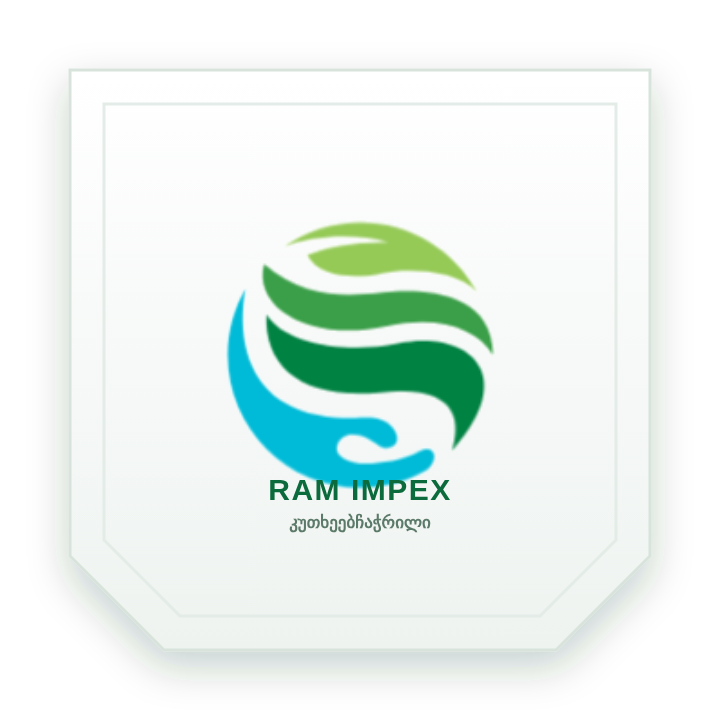
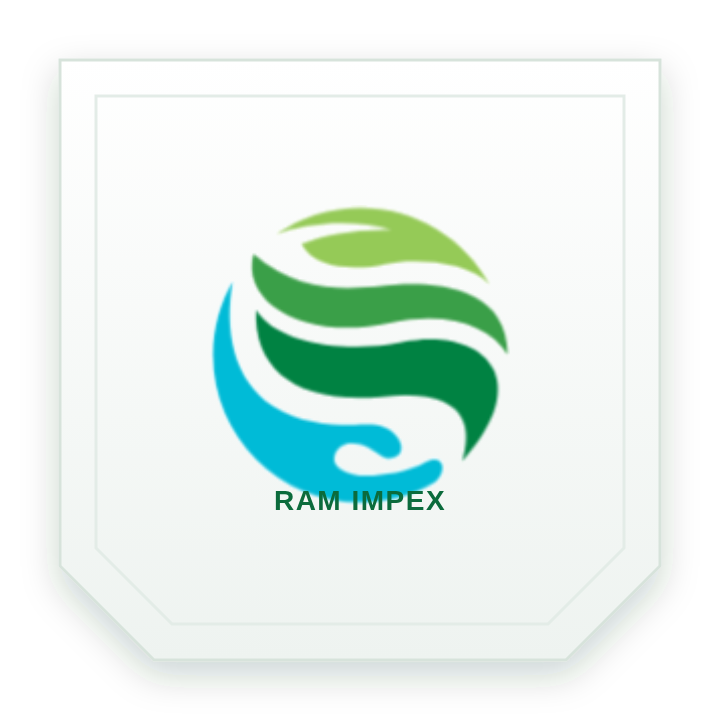
ramimpex: პიცის სურათები დიდი + კრაფტი უბრენდო ვერსია
- 6 ილუსტრაცია: თეთრი (ლოგოთი) + კრაფტი (ყავისფერი, ლოგოს გარეშე), ლოგო/ყუთი გადიდებული.
- მომხმარებლის კარტებზე სურათი 56→104px; ინვოისში 34/40→48/60px, object-fit contain.
- SQL ფერის მიხედვით (თეთრი→ლოგო, კრაფტი→უბრენდო).

Claude-Session: https://claude.ai/code/session_01WKDiGFhyhbVdfXEXXFUdV5

diff --git a/ramimpex/shekvetebi/index.html b/ramimpex/shekvetebi/index.html
@@ -524,7 +524,7 @@ function renderInvoice(){
 }
 function renderInvLines(){
   const tb=$('iRows');$('iEmpty').style.display=invDraft.length?'none':'block';$('iTbl').style.display=invDraft.length?'':'none';
-  tb.innerHTML=invDraft.map((l,i)=>{const p=byCode(l.code)||{};const im=pubImg(l.code);return '<tr><td><b>'+esc(ruCode(l.code))+'</b></td><td>'+(im?'<img src="'+im+'" style="width:34px;height:34px;object-fit:cover;border-radius:5px;vertical-align:middle;margin-right:6px">':'')+esc(l.name||p.name||'')+(p.color?' <span class="muted">· '+esc(p.color)+'</span>':'')+'</td><td>'+esc(l.size||p.size||'')+'</td>'+
+  tb.innerHTML=invDraft.map((l,i)=>{const p=byCode(l.code)||{};const im=pubImg(l.code);return '<tr><td><b>'+esc(ruCode(l.code))+'</b></td><td>'+(im?'<img src="'+im+'" style="width:48px;height:48px;object-fit:contain;background:#fff;border:1px solid #eee;border-radius:6px;vertical-align:middle;margin-right:6px">':'')+esc(l.name||p.name||'')+(p.color?' <span class="muted">· '+esc(p.color)+'</span>':'')+'</td><td>'+esc(l.size||p.size||'')+'</td>'+
     '<td>'+(itmBox(l)?'<input value="'+esc(l.ply||'')+'" placeholder="შრე" style="width:64px" data-ply="'+i+'">':'<span class="muted">—</span>')+'</td>'+
     '<td><select data-brand="'+i+'" style="padding:5px 6px"><option value=""'+(!l.brand?' selected':'')+'>—</option><option value="კი"'+(l.brand==='კი'?' selected':'')+'>კი</option><option value="არა"'+(l.brand==='არა'?' selected':'')+'>არა</option></select></td>'+
     '<td class="right"><input type="number" step="0.01" value="'+l.price+'" style="width:80px;text-align:right;background:#fffbea" data-p="'+i+'"></td>'+
@@ -579,7 +579,7 @@ function printInvoice(inv){
   window.addEventListener('afterprint',restore);
   window.print();
 }
-function invoiceHTML(inv){const ex=inv.extra||{};const rows=(inv.lines||[]).map((l,i)=>'<tr><td>'+(i+1)+'</td><td><b>'+esc(ruCode(l.code))+'</b></td><td>'+((l.img||pubImg(l.code))?'<img src="'+(l.img||pubImg(l.code))+'" style="width:40px;height:40px;object-fit:cover;border-radius:5px;vertical-align:middle;margin-right:7px">':'')+esc(l.name||'')+(l.color?' · '+esc(l.color):'')+'</td><td>'+esc(l.size||'')+(l.ply?' · '+esc(l.ply)+' შრე':'')+(l.brand?' · '+(l.brand==='კი'?'ბრენდირებით':'ბრენდირების გარეშე'):'')+'</td><td style="text-align:right">'+money(l.price)+'</td><td style="text-align:right">'+l.qty+'</td><td style="text-align:right">'+money(l.price*l.qty)+'</td></tr>').join('');
+function invoiceHTML(inv){const ex=inv.extra||{};const rows=(inv.lines||[]).map((l,i)=>'<tr><td>'+(i+1)+'</td><td><b>'+esc(ruCode(l.code))+'</b></td><td>'+((l.img||pubImg(l.code))?'<img src="'+(l.img||pubImg(l.code))+'" style="width:60px;height:60px;object-fit:contain;background:#fff;border:1px solid #eee;border-radius:6px;vertical-align:middle;margin-right:7px">':'')+esc(l.name||'')+(l.color?' · '+esc(l.color):'')+'</td><td>'+esc(l.size||'')+(l.ply?' · '+esc(l.ply)+' შრე':'')+(l.brand?' · '+(l.brand==='კი'?'ბრენდირებით':'ბრენდირების გარეშე'):'')+'</td><td style="text-align:right">'+money(l.price)+'</td><td style="text-align:right">'+l.qty+'</td><td style="text-align:right">'+money(l.price*l.qty)+'</td></tr>').join('');
   return '<div style="max-width:720px;margin:0 auto;color:#14261C;padding:20px;font-family:system-ui,\'Noto Sans Georgian\',sans-serif">'+
    '<div style="display:flex;justify-content:space-between;border-bottom:3px solid #0F8A4D;padding-bottom:10px;margin-bottom:14px"><div><div style="font-size:26px;font-weight:800;color:#0B6B3C">RAM IMPEX</div><div style="font-size:12px;color:#5C6B62">შპს „რამ იმპექს" · <b style="color:#0B6B3C">ს/კ: 405565794</b><br>იმპორტი · დისტრიბუცია · 📞 595 533 500 · ✉ info@ramimpex.com.ge · 🌐 ramimpex.com.ge</div></div>'+
    '<div style="text-align:right"><div style="font-size:22px;font-weight:800;color:#0B6B3C">ინვოისი</div><div>№ <b>'+esc(inv.no||"—")+'</b></div><div>თარიღი: '+esc(inv.date||"")+'</div></div></div>'+

diff --git a/ramimpex/shekveta/index.html b/ramimpex/shekveta/index.html
@@ -212,7 +212,7 @@ function list(){
    c.products.forEach(function(p,pi){
      if(q && (p.code+' '+p.name+' '+p.size).toLowerCase().indexOf(q)<0) return;
      var sim=p.img||pubImgs(p.code)[0]||'';
-     var simMedia=sim?'<img src="'+mediaUrl(sim)+'" onclick="zoom(this.src)" onerror="this.style.display=\'none\'" style="width:56px;height:56px;object-fit:cover;border-radius:9px;cursor:pointer" alt="">':'<div class="icon">📦</div>';
+     var simMedia=sim?'<img src="'+mediaUrl(sim)+'" onclick="zoom(this.src)" onerror="this.style.display=\'none\'" style="width:104px;height:104px;object-fit:contain;background:#fff;border:1px solid #e4ebe6;border-radius:12px;cursor:pointer" alt="">':'<div class="icon">📦</div>';
      html+='<div class="ptype simple">'+simMedia+'<div class="info"><div class="tt">'+esc(p.name)+' <span class="muted" style="font-size:11px">'+esc(ruCode(p.code)||'')+'</span></div><div class="cc">'+extraInfo(p)+'</div><div class="addrow"><input id="qty_s_'+pi+'" type="number" min="1" placeholder="რაოდ. *" style="width:90px;padding:8px 10px;border:1.5px solid #cfe0d6;border-radius:10px;font:inherit"><button class="addbtn" data-simple="'+pi+'">＋ დამატება</button></div></div></div>';
    });
  }
@@ -220,7 +220,7 @@ function list(){
    c.dynProducts.forEach(function(p,di){
      if(q && (p.code+' '+p.name+' '+p.size).toLowerCase().indexOf(q)<0) return;
      var im=p.img||pubImgs(p.code)[0]||'';
-     var md=im?'<img src="'+mediaUrl(im)+'" onclick="zoom(this.src)" onerror="this.style.display=\'none\'" style="width:56px;height:56px;object-fit:cover;border-radius:9px;cursor:pointer" alt="">':'<div class="icon">📦</div>';
+     var md=im?'<img src="'+mediaUrl(im)+'" onclick="zoom(this.src)" onerror="this.style.display=\'none\'" style="width:104px;height:104px;object-fit:contain;background:#fff;border:1px solid #e4ebe6;border-radius:12px;cursor:pointer" alt="">':'<div class="icon">📦</div>';
      html+='<div class="ptype simple">'+md+'<div class="info"><div class="tt">'+esc(p.name)+' <span class="muted" style="font-size:11px">'+esc(ruCode(p.code)||'')+'</span></div><div class="cc">'+extraInfo(p)+'</div><div class="addrow"><input id="qty_d_'+di+'" type="number" min="1" placeholder="რაოდ. *" style="width:90px;padding:8px 10px;border:1.5px solid #cfe0d6;border-radius:10px;font:inherit"><button class="addbtn" data-dyn="'+di+'">＋ დამატება</button></div></div></div>';
    });
  }
